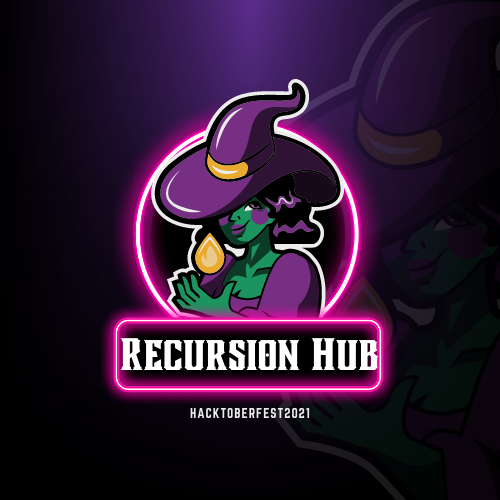
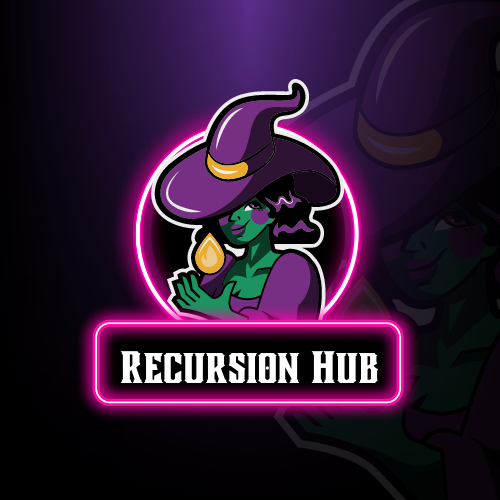
change ui

Changed region(s): [[0.15, 0.6, 0.84, 0.84]]

diff --git a/static/js/index.js b/static/js/index.js
@@ -1,75 +1,83 @@
-    
-    const Count=document.querySelector('.count');
-    const listData=document.querySelector('.container-list');
-    const Input=document.querySelector('.input');
-    let list=[]
-    axios.get('/list').then((res)=>{
-        list=res.data;
-        SetData(list)
-    })
-    
-    function SetData(list){
-        
-        Count.innerHTML=list.length;
 
-        
-        const toadd=list.map((data,index)=>{
+const Count = document.querySelector('.count');
+const listData = document.querySelector('.container-list');
+const Input = document.querySelector('.input');
+let list = []
+axios.get('/list').then((res) => {
+    list = res.data;
+    // console.log(list)
+    SetData(list);
+});
 
-            
-            
-            return `
+
+function SetData(list) {
+
+    Count.innerHTML = list.length;
+
+    
+
+
+    const toadd = list.map((data, index) => {
+
+
+        console.log(data);
+
+
+        return `
             <div class="item">
                 
                 <div class="row">
                     <h3>${data.data.Name}</h3>
                     <a href="${data.data.Github}">Github</a>
-                <a href="${data.data.WebSite}">WebSite </a>
+                <a href="${data.data.WebSite || "#"}">WebSite </a>
             </div>
             
-            <div>Problem:${data.data.Problem}</div>
-            <div>Description:${data.data.Description}</div>
+            <div>Problem: ${data.data.Problem}</div>
+            <div>Description: ${data.data.Description}</div>
             
             <p>
-                <a class="btn btn-primary" data-bs-toggle="collapse" href=${"#collapseExample"+index} role="button" aria-expanded="false" aria-controls=${"collapseExample"+index}
+                <a class="btn btn-primary" data-bs-toggle="collapse" href=${"#collapseExample" + index} role="button" aria-expanded="false" aria-controls=${"collapseExample" + index}
                 >
                     Code
                 </a>
                 
             </p>
-            <div class="collapse" id=${"collapseExample"+index}>
+            <div class="collapse" id=${"collapseExample" + index}>
                 <div class="card card-body">
-                    <pre class="language-${data.data.Language || 'bash'}"><code >
-                        
-                        ${
-                            
-                            data.content.split("```")[1].substr(data.content.split("```")[1].indexOf("\n"))
-                            
-                            
-                        }
-                        
-                        
+                    <h3> ${data.data.Language.toLowerCase()} </h3>
+
+                    <pre>
+                    <code>
+                    ${data.content.split("```")[1].substr(data.content.split("```")[1].indexOf("\n"))
+    }
                     </code>
+                    </pre>
+
+
+            
+                        
                     
-                </pre>
             </div>
             </div>
         </div>
         `
-        
-    }).join(' ');
-    
-    listData.innerHTML=toadd;
+
+    }).join('');
+
+    listData.innerHTML = toadd;
 }
 
-function SetList(e){
+function SetList(e) {
 
-if(Input.value=="") return SetData(list);
-  const q=  new RegExp(Input.value, 'gi');
-  
-  const newlist=list.filter((data)=>{
-    
+    if (Input.value == "") return SetData(list);
+    const q = new RegExp(Input.value, 'gi');
 
-    return data.data.Name.match(q) || data.data.Problem.match(q);
-  })
-  SetData(newlist);
+    const newlist = list.filter((data) => {
+
+        // console.log(data.data);
+
+
+        return data.data.Name.match(q) || data.data.Problem.match(q);
+    })
+    SetData(newlist);
 }

diff --git a/template/index.html b/template/index.html
@@ -1,5 +1,6 @@
 <!DOCTYPE html>
 <html lang="en">
+
 <head>
     <meta charset="UTF-8">
     <meta http-equiv="X-UA-Compatible" content="IE=edge">
@@ -7,33 +8,61 @@
     <title>Recursion Hub</title>
 </head>
 
-<link href="https://cdn.jsdelivr.net/npm/bootstrap@5.1.1/dist/css/bootstrap.min.css" rel="stylesheet" integrity="sha384-F3w7mX95PdgyTmZZMECAngseQB83DfGTowi0iMjiWaeVhAn4FJkqJByhZMI3AhiU" crossorigin="anonymous">
-<link rel="stylesheet" href="/public/css/prisum.css">
+<link href="https://cdn.jsdelivr.net/npm/bootstrap@5.1.1/dist/css/bootstrap.min.css" rel="stylesheet"
+    integrity="sha384-F3w7mX95PdgyTmZZMECAngseQB83DfGTowi0iMjiWaeVhAn4FJkqJByhZMI3AhiU" crossorigin="anonymous">
+<!-- <link rel="stylesheet" href="/public/css/prisum.css"> -->
 <style>
-
-    .container,.row {
+    .container,
+    .row {
         width: 100%;
         display: flex;
         align-items: center;
         justify-content: center;
         flex-direction: column;
     }
-    .row{
+
+    .row {
         flex-direction: row;
     }
-    .item{
-        width: 90%;
-        margin: 1rem;
+
+    .container-list{
+        width: 100%;
     }
-    @media (max-width:1024px) {
-  .item{
-    width: 98vw;
-    margin: auto;
-    padding: 20px;
-  }
-}
+
+    .item {
+        width: 100%;
+        margin: 2rem 0;
+
+    }
+
     .item > *{
+        margin: 1rem 0;
+    }
+
+    .row >*{
+        margin: 0;
+        padding:0;
+    }
+
+
+    .container-list > code{
+        color: black !important;
+        font-family: monospace;
+    }
+
+    @media (max-width:1024px) {
+        .item {
+            width: 98vw;
+            margin: auto;
+            padding: 20px;
+        }
+    }
+
+     .item>* {
         padding: .4rem 0;
+    }
+    img{
+        width:30%;
     }
 </style>
 
@@ -41,12 +70,14 @@
 
     <div class="container">
         <h1>Recursion Hub</h1>
-       <div> Count: <span class="count">0</span></div>
-       <div class="input-group mb-3">
-        <input type="text"  class="input form-control" onkeyup="SetList(event)" placeholder="Find Problem">
-      </div>
+        <img src="/public/Hacktoberfest2021.png" alt="none">
+        <h3> Count of Programs: <span class="count">0</span></h3>
+
+        <div class="input-group mb-3">
+            <input type="text" class="input form-control" onkeyup="SetList(event)" placeholder="Find Problem">
+        </div>
         <div class="container-list">
-            <div class="item">
+            <!-- <div class="item">
 
                 <div class="row">
                     <h3>Name</h3>
@@ -67,17 +98,20 @@
                 <div class="card card-body">
                     <pre><code class="language-css"></code></pre>
                 </div>
-            </div>
-        </div>
-            
-            
+            </div> -->
         </div>
 
+
     </div>
-    
+
+    </div>
+
 </body>
 <script src="https://cdn.jsdelivr.net/npm/axios/dist/axios.min.js"></script>
-<script src="https://cdn.jsdelivr.net/npm/bootstrap@5.1.1/dist/js/bootstrap.bundle.min.js" integrity="sha384-/bQdsTh/da6pkI1MST/rWKFNjaCP5gBSY4sEBT38Q/9RBh9AH40zEOg7Hlq2THRZ" crossorigin="anonymous"></script>
+<script src="https://cdn.jsdelivr.net/npm/bootstrap@5.1.1/dist/js/bootstrap.bundle.min.js"
+    integrity="sha384-/bQdsTh/da6pkI1MST/rWKFNjaCP5gBSY4sEBT38Q/9RBh9AH40zEOg7Hlq2THRZ"
+    crossorigin="anonymous"></script>
 <script src="/public/js/index.js"></script>
-<script src="/public/js/prisum.js"></script>
+<!-- <script src="/public/js/prisum.js"></script> -->
+
 </html>

diff --git a/server.js b/server.js
@@ -4,12 +4,12 @@ const fs = require('fs')
 const matter = require('gray-matter');
 // app.use(express.static(''))
 // app.use(express.urlencoded())
-app.engine('html', require('ejs').renderFile)
-app.set('view engine', 'html');
+// app.engine('html', require('ejs').renderFile)
+// app.set('view engine', 'html');
 app.use('/public', express.static(__dirname + '/static'))
 
 app.get('/', (req, res) => {
-    res.render(__dirname + '/template/index.html')
+    res.sendFile(__dirname + '/template/index.html')
 });
 
 app.get('/list', (req, res) => {

diff --git a/Code/print-array-using-recursion.md b/Code/print-array-using-recursion.md
@@ -3,21 +3,10 @@ Name: 'Rahul Khattri'
 Github: 'https://github.com/rahulkhattri0'  
 Problem: 'Write a program in C to print the array elements using recursion.'  
 Description: 'print array elements using recursion'  
-Explanation: 'Test Data :
-Input the number of elements to be stored in the array :6
-Input 6 elements in the array :
-element - 0 : 2
-element - 1 : 4
-element - 2 : 6
-element - 3 : 8
-element - 4 : 10
-element - 5 : 12
-Expected Output :
-
-The elements in the array are : 2  4  6  8  10  12'  
 Language: 'C' 
 ---
-```language-C
+
+```C
 #include <stdio.h>
 #define MAX 100
 

diff --git a/Code/Rotated_Palindrome_String.md b/Code/Rotated_Palindrome_String.md
@@ -1,11 +1,9 @@
-
 ---
 Name: 'Himanshu Malviya'  
 Github: 'https://github.com/Himanshu664'  
 Problem: 'Check if a string is a rotated palindrome or not'  
 Description: 'Given a String, check if a string is a rotated palindrome or not'  
-Explanation: 'Consider all rotations of the given string and check if any rotation is a palindrome or not. If we have found a rotation that is a palindrome, return true; otherwise, return false'  
-Language: 'Java' 
+Language: 'java' 
 ---
 
 

diff --git a/Code/BinarySearch.md b/Code/BinarySearch.md
@@ -6,9 +6,10 @@ Problem: 'Binary Search'
 Description: 'To search & check if particular element is present in the list or not using binary search.'
 Explanation: 'Size of an array, Array, & key element is given by user & following algorithm will 
 check if that element is present in arraylist or not & give its index accordingly!
-'  
+' 
 Language: 'C++' 
 ---
+
 ```C++
 #include <iostream>
 using namespace std;

diff --git a/Code/Sum of Digits.md b/Code/Sum of Digits.md
@@ -3,11 +3,10 @@ Name: 'Saksham Negi'
 Github: 'https://github.com/sakshamian'  
 Problem: 'Sum Of Digits'  
 Description: 'Given a number, you need to find sum of its digits using recursion.' 
-Explanation:  'Input: 589  Output: 22'
 Language: 'cpp'
 ---
 
-```
+```C
 #include<bits/stdc++.h>
 using namespace std;
  

diff --git a/Code/reversingarray.md b/Code/reversingarray.md
@@ -3,8 +3,9 @@ Name: 'sujaykummari'
 Github: 'https://github.com/sujaykummari'
 Problem: 'reversingarray'
 Description: 'reversing the array elements. '
-Language: 'c++'
+Language: 'cpp'
 ---
+
 ```cpp
 // Iterative C++ program to reverse an array
 #include <bits/stdc++.h>
